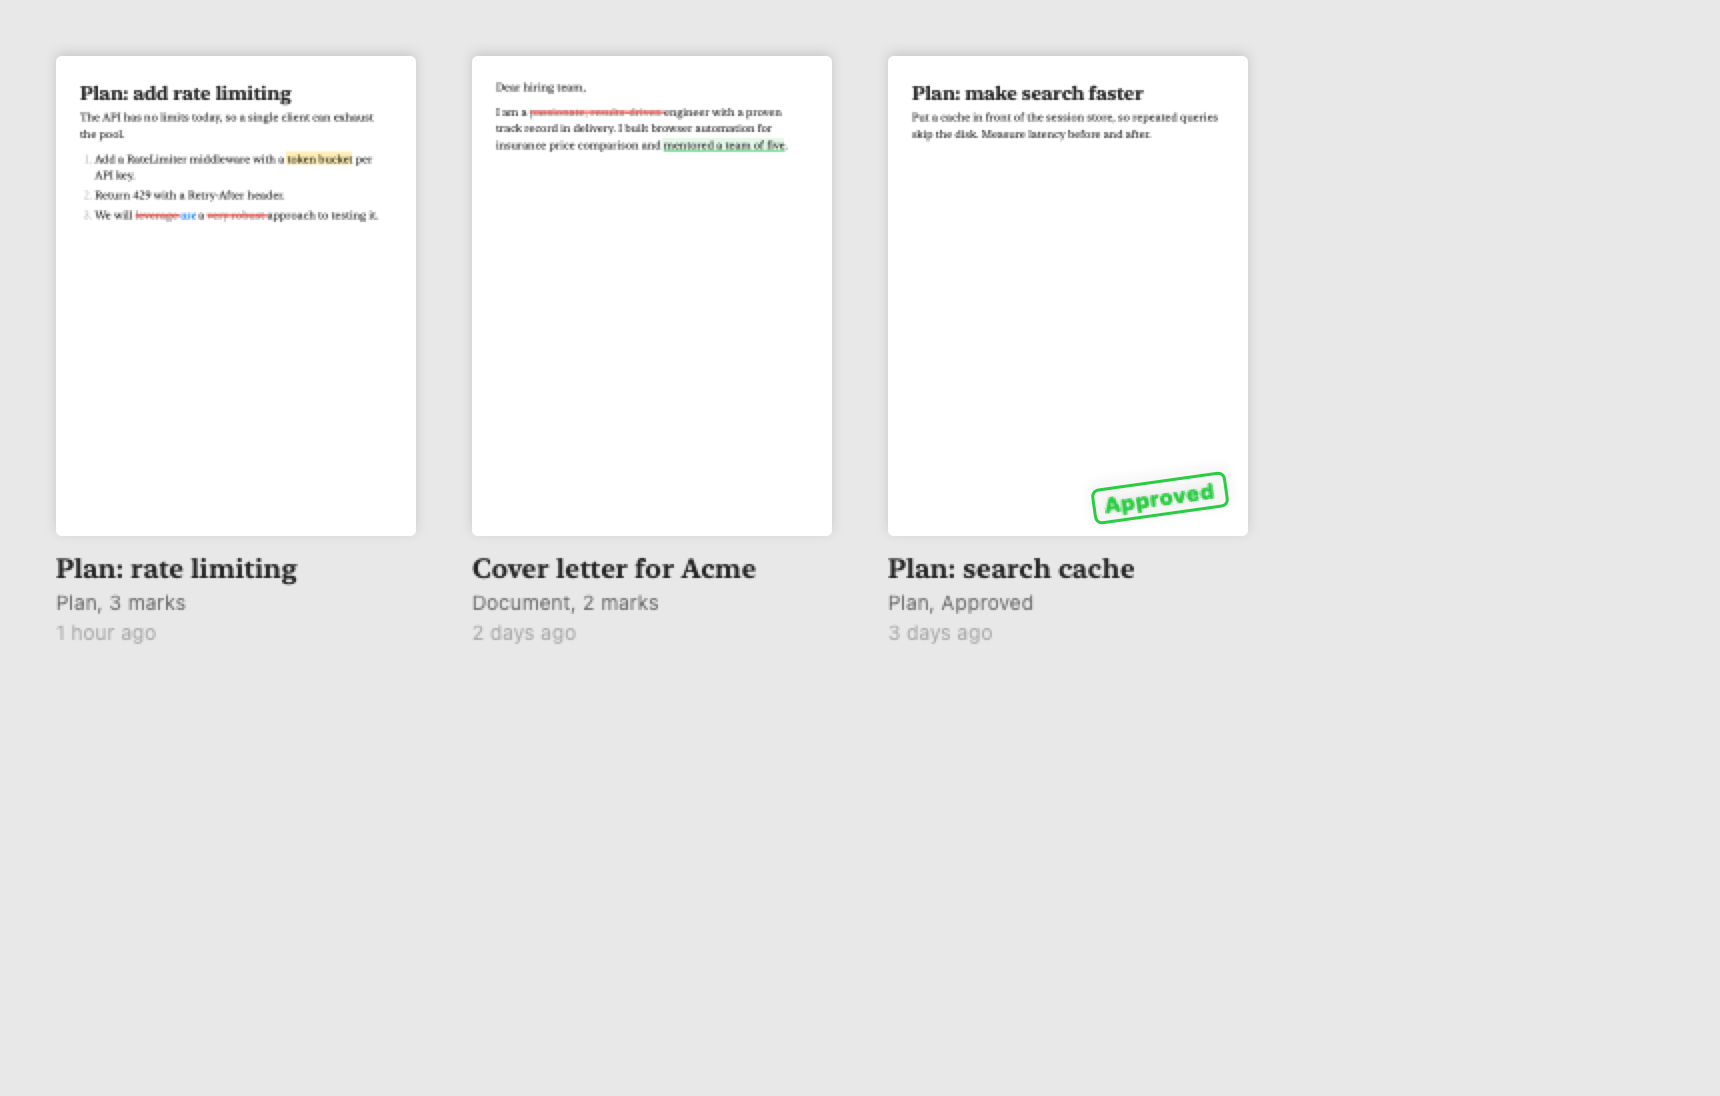
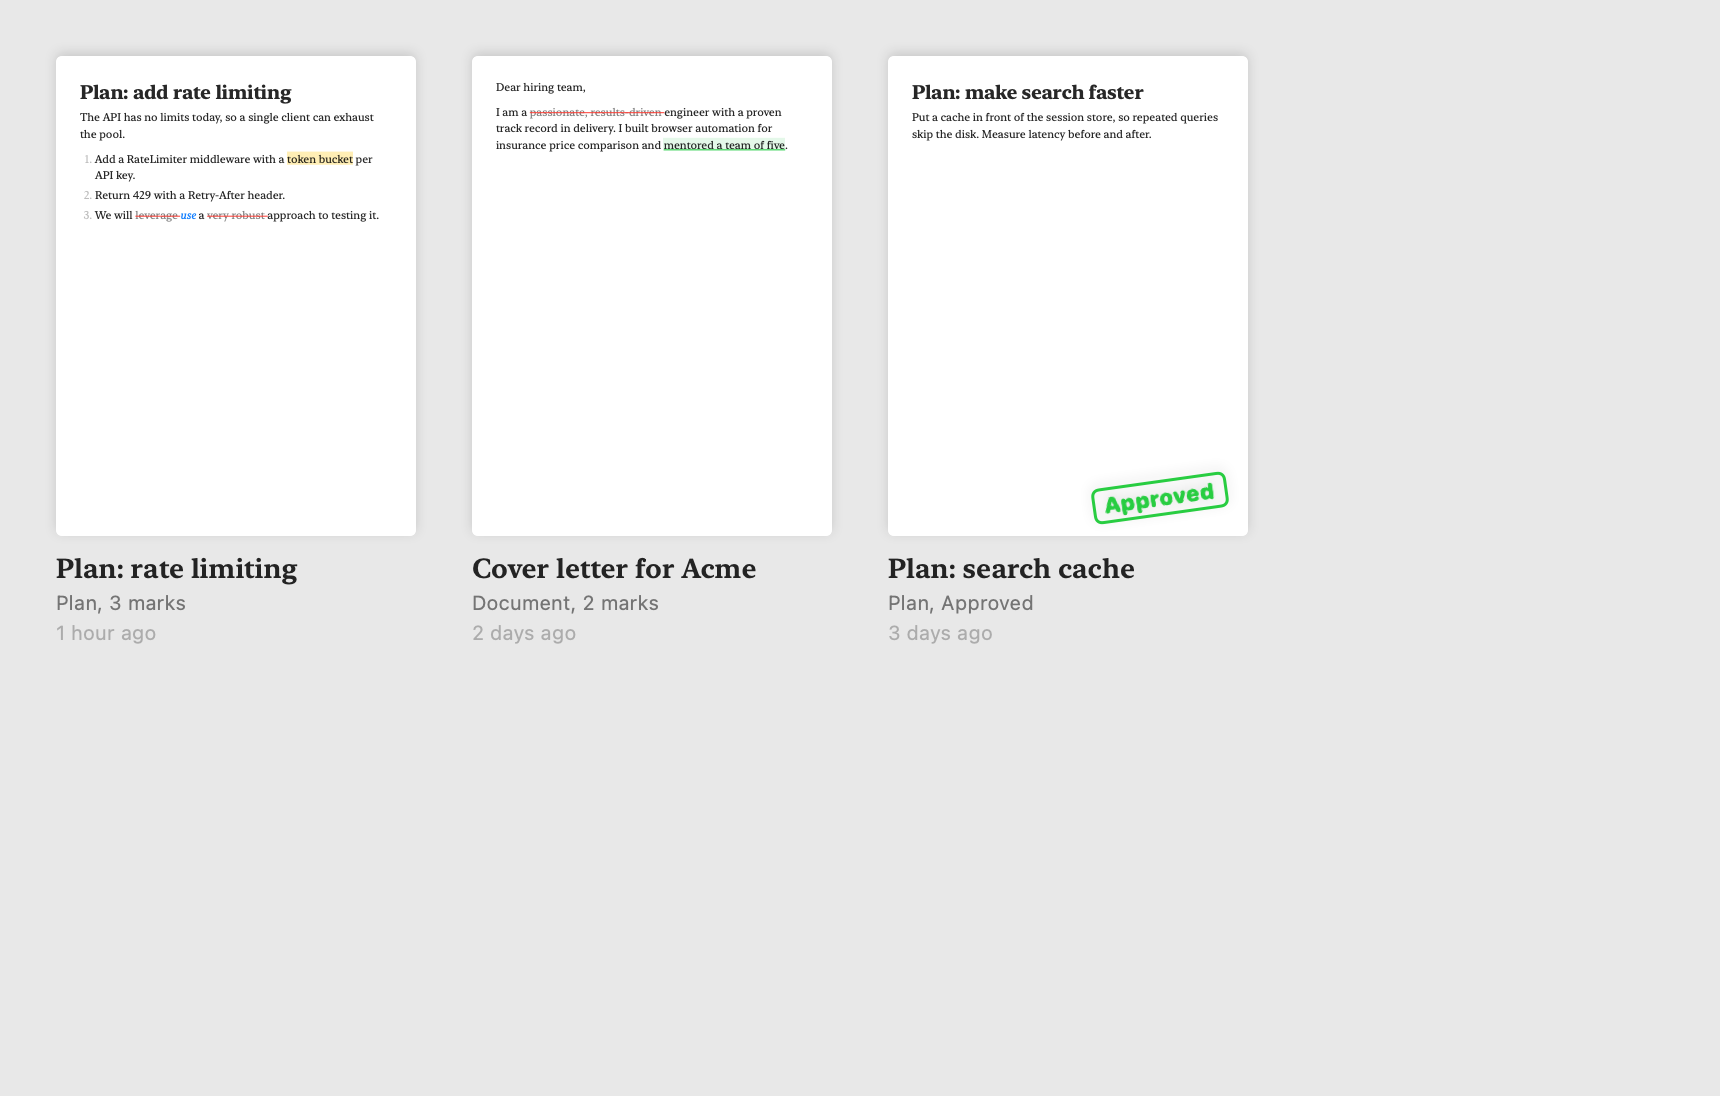
Snapshot windows draw at two pixels a point with the screen off, so the README screenshots stay sharp

diff --git a/Packages/AnnotatorKit/Tests/AnnotatorUITests/ReviewWindowTests.swift b/Packages/AnnotatorKit/Tests/AnnotatorUITests/ReviewWindowTests.swift
@@ -51,7 +51,7 @@ struct ReviewWindowTests {
             modes: [.feedback, .applyEdits]
         )
         let session = ReviewSession(request: request)
-        let window = NSWindow(
+        let window = SnapshotWindow(
             contentRect: NSRect(x: 0, y: 0, width: 1040, height: 700),
             styleMask: [.titled, .resizable], backing: .buffered, defer: false
         )
@@ -427,7 +427,7 @@ struct ReviewWindowTests {
         #expect(view.fittingSize.width > 150 && view.fittingSize.height < 40)
 
         guard let directory = ProcessInfo.processInfo.environment["ANNOTATOR_SNAPSHOT_DIR"] else { return }
-        let window = NSWindow(contentRect: NSRect(x: 0, y: 0, width: view.frame.width + 40, height: 70), styleMask: [.titled], backing: .buffered, defer: false)
+        let window = SnapshotWindow(contentRect: NSRect(x: 0, y: 0, width: view.frame.width + 40, height: 70), styleMask: [.titled], backing: .buffered, defer: false)
         window.isReleasedWhenClosed = false
         let backdrop = NSView(frame: window.contentLayoutRect)
         backdrop.wantsLayer = true
@@ -479,7 +479,7 @@ struct ReviewWindowTests {
             metadata: ReviewMetadata(title: "Plan"), reply: .hookDecision, modes: [.feedback, .approve]
         )
         let session = ReviewSession(request: request)
-        let window = NSWindow(contentRect: NSRect(x: 0, y: 0, width: 900, height: 360), styleMask: [.titled], backing: .buffered, defer: false)
+        let window = SnapshotWindow(contentRect: NSRect(x: 0, y: 0, width: 900, height: 360), styleMask: [.titled], backing: .buffered, defer: false)
         window.isReleasedWhenClosed = false
         window.contentView = NSHostingView(rootView: ReviewView(session: session) { _ in })
         settle(window)

diff --git a/Packages/AnnotatorKit/Tests/AnnotatorUITests/WelcomeTests.swift b/Packages/AnnotatorKit/Tests/AnnotatorUITests/WelcomeTests.swift
@@ -71,7 +71,7 @@ struct WelcomeTests {
         _ = NSApplication.shared
         let session = ReviewSession(request: Welcome.request(), isWelcome: true)
         _ = session.addMark(.delete, span: try span(of: "very robust and comprehensive", in: session))
-        let window = NSWindow(contentRect: NSRect(x: 0, y: 0, width: 1040, height: 640), styleMask: [.titled], backing: .buffered, defer: false)
+        let window = SnapshotWindow(contentRect: NSRect(x: 0, y: 0, width: 1040, height: 640), styleMask: [.titled], backing: .buffered, defer: false)
         window.isReleasedWhenClosed = false
         window.contentView = NSHostingView(rootView: ReviewView(session: session) { _ in })
         window.contentView?.layoutSubtreeIfNeeded()
@@ -89,7 +89,7 @@ struct WelcomeTests {
 
         let finish = NSHostingView(rootView: WelcomeFinishView(feedback: session.feedback(), setUpHotkey: {}, close: {}))
         finish.frame = NSRect(origin: .zero, size: finish.fittingSize)
-        let finishWindow = NSWindow(contentRect: finish.frame, styleMask: [.titled], backing: .buffered, defer: false)
+        let finishWindow = SnapshotWindow(contentRect: finish.frame, styleMask: [.titled], backing: .buffered, defer: false)
         finishWindow.isReleasedWhenClosed = false
         finishWindow.contentView = finish
         finish.layoutSubtreeIfNeeded()

diff --git a/Packages/AnnotatorKit/Tests/AnnotatorUITests/WideTableTests.swift b/Packages/AnnotatorKit/Tests/AnnotatorUITests/WideTableTests.swift
@@ -58,7 +58,7 @@ struct WideTableTests {
         let range = (Self.source as NSString).range(of: "as long as it needs")
         session.addMark(.comment, span: TextSpan(range.location, NSMaxRange(range)), note: "Up to the two-hour limit.")
         session.selectedMarkID = nil
-        let window = NSWindow(contentRect: NSRect(x: 0, y: 0, width: 1040, height: 760), styleMask: [.titled], backing: .buffered, defer: false)
+        let window = SnapshotWindow(contentRect: NSRect(x: 0, y: 0, width: 1040, height: 760), styleMask: [.titled], backing: .buffered, defer: false)
         window.isReleasedWhenClosed = false
         window.contentView = NSHostingView(rootView: ReviewView(session: session) { _ in })
         window.contentView?.layoutSubtreeIfNeeded()

diff --git a/Packages/AnnotatorKit/Tests/AnnotatorUITests/SnippetsAndHistoryTests.swift b/Packages/AnnotatorKit/Tests/AnnotatorUITests/SnippetsAndHistoryTests.swift
@@ -19,7 +19,7 @@ struct SnippetsAndHistoryTests {
     private func snapshot(_ view: some View, size: NSSize, named name: String) {
         _ = NSApplication.shared
         guard let directory = ProcessInfo.processInfo.environment["ANNOTATOR_SNAPSHOT_DIR"] else { return }
-        let window = NSWindow(contentRect: NSRect(origin: .zero, size: size), styleMask: [.titled], backing: .buffered, defer: false)
+        let window = SnapshotWindow(contentRect: NSRect(origin: .zero, size: size), styleMask: [.titled], backing: .buffered, defer: false)
         window.isReleasedWhenClosed = false
         let host = NSHostingView(rootView: view.background(Color(nsColor: .windowBackgroundColor)))
         window.contentView = host

diff --git a/Packages/AnnotatorKit/Tests/AnnotatorUITests/CaptureTests.swift b/Packages/AnnotatorKit/Tests/AnnotatorUITests/CaptureTests.swift
@@ -142,7 +142,7 @@ struct CaptureTests {
     private func snapshot(_ view: some View, size: NSSize, named name: String) {
         _ = NSApplication.shared
         guard let directory = ProcessInfo.processInfo.environment["ANNOTATOR_SNAPSHOT_DIR"] else { return }
-        let window = NSWindow(contentRect: NSRect(origin: .zero, size: size), styleMask: [.titled], backing: .buffered, defer: false)
+        let window = SnapshotWindow(contentRect: NSRect(origin: .zero, size: size), styleMask: [.titled], backing: .buffered, defer: false)
         window.isReleasedWhenClosed = false
         let host = NSHostingView(rootView: view.background(Color(nsColor: .windowBackgroundColor)))
         window.contentView = host

diff --git a/Packages/AnnotatorKit/Tests/AnnotatorUITests/PlanChangesTests.swift b/Packages/AnnotatorKit/Tests/AnnotatorUITests/PlanChangesTests.swift
@@ -42,7 +42,7 @@ struct PlanChangesTests {
 
     private func makeWindow(_ session: ReviewSession) -> (NSWindow, AnnotationTextView)? {
         _ = NSApplication.shared
-        let window = NSWindow(
+        let window = SnapshotWindow(
             contentRect: NSRect(x: 0, y: 0, width: 1040, height: 620),
             styleMask: [.titled, .resizable], backing: .buffered, defer: false
         )

diff --git a/Packages/AnnotatorKit/Tests/AnnotatorUITests/Snapshots.swift b/Packages/AnnotatorKit/Tests/AnnotatorUITests/Snapshots.swift
@@ -14,3 +14,9 @@ extension NSView {
         return bitmap
     }
 }
+
+/// A window that draws at two pixels a point even with no Retina screen
+/// attached, so SwiftUI's layers come out as sharp as the text.
+final class SnapshotWindow: NSWindow {
+    override var backingScaleFactor: CGFloat { 2 }
+}
